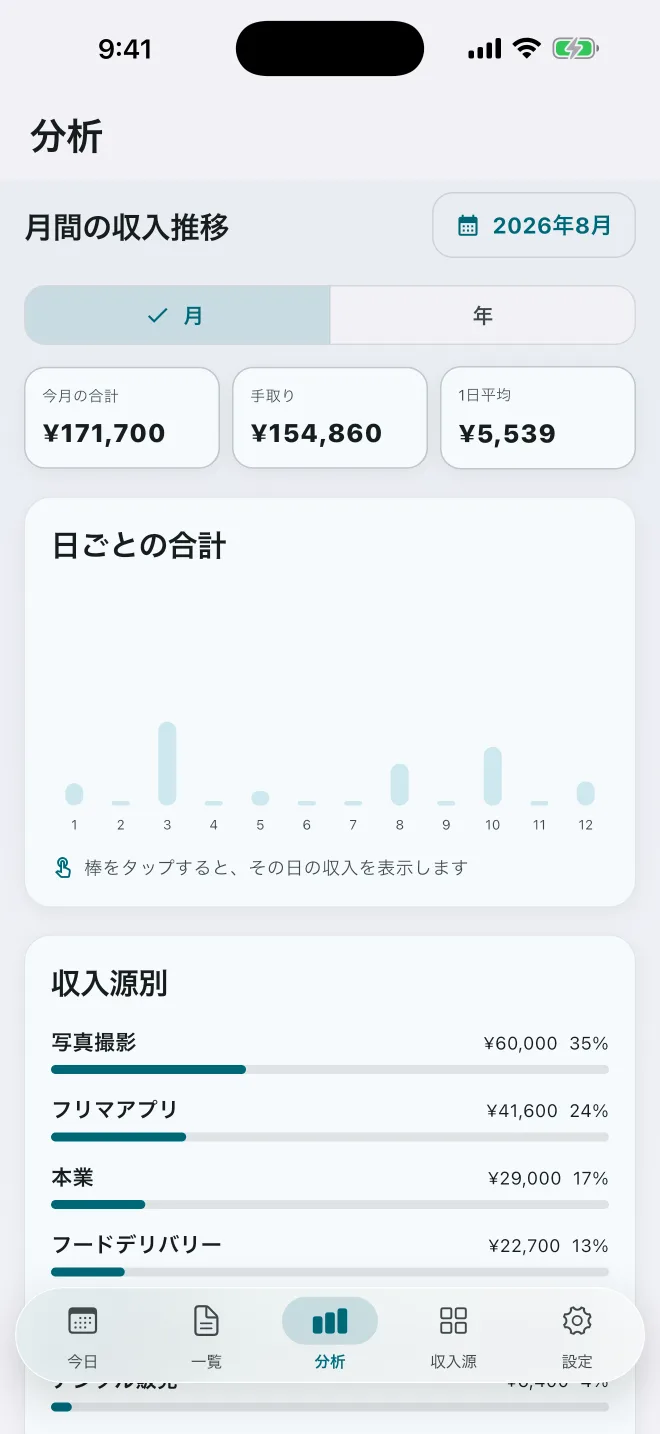
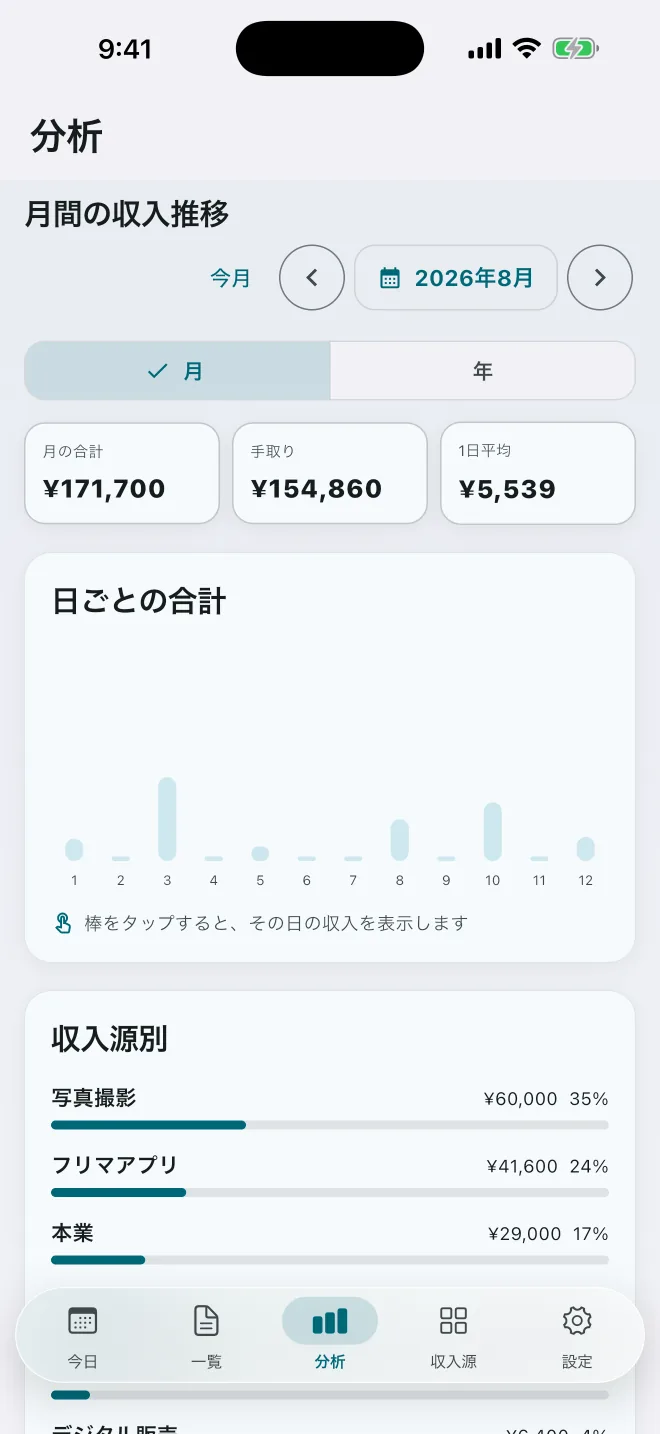
Update LP analysis screenshots for version 1.2

diff --git a/index.html b/index.html
@@ -75,7 +75,7 @@
       <div class="section-header"><p class="eyebrow">A CLEARER VIEW</p><h2>今日から一年まで、<br>同じ記録を見渡せる。</h2></div>
       <div class="showcase-list">
         <article class="showcase"><div class="showcase-copy"><p class="showcase-label">TIMELINE</p><h3>収入を一覧で確認し、その場で編集。</h3><p>すべての記録を月ごとに表示。収入源で絞り込み、手数料・経費・作業時間などをあとから追記できます。</p></div><div class="screen-stage"><div class="screen-shot"><img src="assets/screen-timeline.webp?v=20260821-1" alt="月ごとに収入を確認して編集できるタイムライン画面" width="660" height="1434" loading="lazy"></div></div></article>
-        <article class="showcase"><div class="showcase-copy"><p class="showcase-label">ANALYSIS</p><h3>月と年の変化を、ひと目で。</h3><p>日ごとの合計、月ごとの合計、収入源の割合を確認。棒グラフをタップして、その日や月の内訳へ進めます。</p></div><div class="screen-stage"><div class="screen-shot secondary"><img src="assets/screen-month.webp?v=20260821-1" alt="日ごとの収入と収入源別内訳を表示する月分析画面" width="660" height="1434" loading="lazy"></div><div class="screen-shot secondary"><img src="assets/screen-year.webp?v=20260821-1" alt="月ごとの収入推移を表示する年分析画面" width="660" height="1434" loading="lazy"></div></div></article>
+        <article class="showcase"><div class="showcase-copy"><p class="showcase-label">ANALYSIS</p><h3>月と年の変化を、ひと目で。</h3><p>日ごとの合計、月ごとの合計、収入源の割合を確認。棒グラフをタップして、その日や月の内訳へ進めます。</p></div><div class="screen-stage"><div class="screen-shot secondary"><img src="assets/screen-month.webp?v=20260902-1" alt="日ごとの収入と収入源別内訳を表示する月分析画面" width="660" height="1434" loading="lazy"></div><div class="screen-shot secondary"><img src="assets/screen-year.webp?v=20260902-1" alt="月ごとの収入推移を表示する年分析画面" width="660" height="1434" loading="lazy"></div></div></article>
         <article class="showcase"><div class="showcase-copy"><p class="showcase-label">INCOME SOURCES</p><h3>働き方に合わせて、自由に追加。</h3><p>収入源は自由に追加できます。使わなくなった項目は、過去の記録を残したままアーカイブできます。</p></div><div class="screen-stage"><div class="screen-shot"><img src="assets/screen-sources.webp?v=20260821-1" alt="収入源の追加、編集、アーカイブができる管理画面" width="660" height="1434" loading="lazy"></div></div></article>
       </div>
     </div></section>
